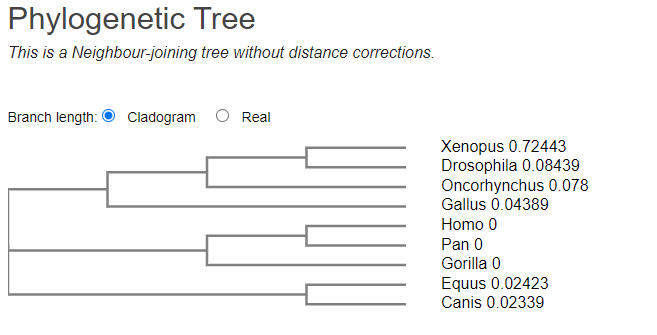
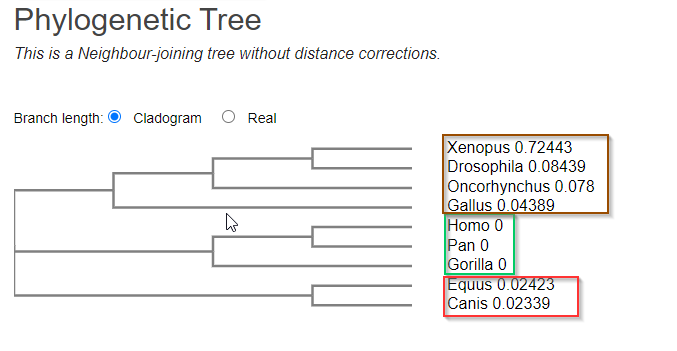
update arbol filogenetico

Changed region(s): [[0.0, 0.3582, 0.9132, 0.9254], [0.0, 0.0, 0.6697, 0.1791], [0.0, 0.2985, 0.4262, 0.3881]]

diff --git a/Trabajo Practico 4/README.md b/Trabajo Practico 4/README.md
@@ -73,4 +73,7 @@ organismo, por lo que no sufre demasiadas modificaciones a lo largo del tiempo.
 
 #### Observemos el árbol filogenético. ¿Concuerda con lo esperado? ¿De qué organismos son los citocromos c más parecidos? ¿Cómo se explica?
 ![Arbol Filogenetico](arbol-filogenetico.png)
->R: pudimos ver que dentro del arbol filogenetico se agrupa en varios grupos: por un lado tenemos el grupo
+>R: pudimos ver que dentro del arbol filogenetico se agrupa en varios grupos: por un lado tenemos un grupo donde tenemos un grupo con los primates,
+(Hombre comun, Chimpance comun, Gorila Occidental), y por otro lado otro grupo con los mamiferos (Caballo y perro) y por ultimo un grupo con el resto
+de organismos. De lo anterior se desprende que el citocromo c es mas similar en organismos del mismo grupo. Se explica tambien teniendo en cuenta lo
+anterior, que se parezca entre organismos que tienen un ancestro en comun cercano.
